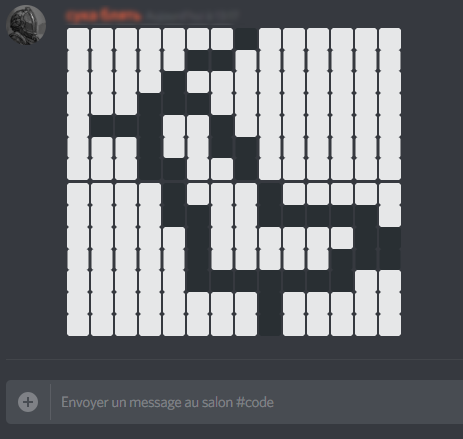
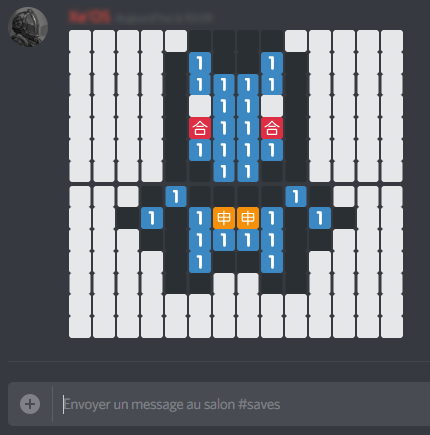
Updated software to support 5 new colors

diff --git a/DiscordPainter/PaintWindow.cs b/DiscordPainter/PaintWindow.cs
@@ -14,7 +14,7 @@ namespace DiscordPainter
     {
         private RenderWindow window;
         private Gui gui;
-        private bool colorMode;
+        private string colorMode;
         private Canvas canvas;
         private bool pressed;
 
@@ -90,25 +90,20 @@ namespace DiscordPainter
             if (gui != null)
                 gui.RemoveAllWidgets();
 
-            var buttonWhite = new Button("White")
+            var listColors = new ListBox()
             {
                 Position = new Vector2f(Utils.WIDTH * 41 / 50, Utils.HEIGHT * 1 / 7),
-                Size = new Vector2f(Utils.WIDTH * 8 / 50, Utils.HEIGHT / 10),
-                TextSize = (uint)(0.5 * Utils.HEIGHT / 10)
+                Size = new Vector2f(Utils.WIDTH * 8 / 50, Utils.HEIGHT * 1 / 4),
+                TextSize = (uint)(0.25 * Utils.HEIGHT / 10)
             };
-            gui.Add(buttonWhite);
 
-            buttonWhite.Pressed += (s, e) => SwitchColor(true);
-
-            var buttonBlack = new Button("Black")
+            foreach (KeyValuePair<string, string> color in Utils.COLORS)
             {
-                Position = new Vector2f(Utils.WIDTH * 41 / 50, Utils.HEIGHT * 2 / 7),
-                Size = new Vector2f(Utils.WIDTH * 8 / 50, Utils.HEIGHT / 10),
-                TextSize = (uint)(0.5 * Utils.HEIGHT / 10)
-            };
-            gui.Add(buttonBlack);
-
-            buttonBlack.Pressed += (s, e) => SwitchColor(false);
+                listColors.AddItem(color.Key.ToString());
+            }
+            gui.Add(listColors);
+               
+            listColors.ItemSelected += (s, e) => SwitchColor(in listColors);
 
             var buttonNew = new Button("New")
             {
@@ -141,9 +136,9 @@ namespace DiscordPainter
             buttonQuit.Pressed += (s, e) => CloseWindow();
         }
 
-        public void SwitchColor(bool color)
+        public void SwitchColor(in ListBox listBox)
         {
-            colorMode = color;
+            colorMode = listBox.GetSelectedItem();
         }
 
         public void OutputPaint()
@@ -154,13 +149,31 @@ namespace DiscordPainter
             {
                 for (int k = 0; k < Utils.SIZE_MAP_Y; k++)
                 {
-                    if (canvas.tiles[k][i] == 1)
+                    switch (canvas.tiles[k][i])
                     {
-                        output.Append(Utils.WHITE);
-                    }
-                    else
-                    {
-                        output.Append(Utils.BLACK);
+                        case 0:
+                            output.Append(Utils.COLORS["BLACK"]);
+                            break;
+                        case 1:
+                            output.Append(Utils.COLORS["WHITE"]);
+                            break;
+                        case 2:
+                            output.Append(Utils.COLORS["RED"]);
+                            break;
+                        case 3:
+                            output.Append(Utils.COLORS["GREEN"]);
+                            break;
+                        case 4:
+                            output.Append(Utils.COLORS["BLUE"]);
+                            break;
+                        case 5:
+                            output.Append(Utils.COLORS["YELLOW"]);
+                            break;
+                        case 6:
+                            output.Append(Utils.COLORS["PURPLE"]);
+                            break;
+                        default:
+                            break;
                     }
                 }
                 if (i == (Utils.SIZE_MAP_X / 2) - 1)

diff --git a/DiscordPainter/Canvas.cs b/DiscordPainter/Canvas.cs
@@ -32,22 +32,49 @@ namespace DiscordPainter
                     square.Position = new Vector2f(i * Utils.SQUARE_SIZE, k * Utils.SQUARE_SIZE);
 
                     // Fill color is changed for obstacles
-                    if (tiles[i][k] == 1) { square.FillColor = Color.White; }
-                    else if (tiles[i][k] == 0) { square.FillColor = Color.Black; }
-                    else { square.FillColor = new Color(128, 128, 128); }
+                    if (tiles[i][k] == 0) { square.FillColor = Color.Black; }
+                    else if (tiles[i][k] == 1) { square.FillColor = Color.White; }
+                    else if (tiles[i][k] == 2) { square.FillColor = new Color(221, 46, 68); }
+                    else if (tiles[i][k] == 3) { square.FillColor = new Color(119, 178, 85); }
+                    else if (tiles[i][k] == 4) { square.FillColor = new Color(59, 136, 195); }
+                    else if (tiles[i][k] == 5) { square.FillColor = new Color(244, 144, 12); }
+                    else if (tiles[i][k] == 6) { square.FillColor = new Color(116, 78, 170); }
 
                     window.Draw(square);
                 }
             }
         }
 
-        public void ChangePixel(int x, int y, bool color)
+        public void ChangePixel(int x, int y, string color)
         {
             if (x < Utils.SIZE_MAP_X && x >= 0 && y < Utils.SIZE_MAP_Y && y >= 0) {
-                if (color)
-                    tiles[x][y] = 1;
-                else
-                    tiles[x][y] = 0;
+
+                switch (color)
+                {
+                    case "BLACK":
+                        tiles[x][y] = 0;
+                        break;
+                    case "WHITE":
+                        tiles[x][y] = 1;
+                        break;
+                    case "RED":
+                        tiles[x][y] = 2;
+                        break;
+                    case "GREEN":
+                        tiles[x][y] = 3;
+                        break;
+                    case "BLUE":
+                        tiles[x][y] = 4;
+                        break;
+                    case "YELLOW":
+                        tiles[x][y] = 5;
+                        break;
+                    case "PURPLE":
+                        tiles[x][y] = 6;
+                        break;
+                    default:
+                        break;
+                }
             }
         }
     }

diff --git a/DiscordPainter/Utils.cs b/DiscordPainter/Utils.cs
@@ -17,8 +17,16 @@ namespace DiscordPainter
 
         public const int SQUARE_SIZE = (WIDTH - GUI_WIDTH) / SIZE_MAP_X;
 
-        public const String BLACK = ":black_large_square:";
-        public const String WHITE = ":white_large_square:";
+        public static Dictionary<string, string> COLORS = new Dictionary<string, string>()
+        {
+            {"BLACK", ":black_large_square:" },
+            {"WHITE", ":white_large_square:" },
+            {"RED", ":u5408:" },
+            {"GREEN", ":u6307:" },
+            {"BLUE", ":one:" },
+            {"YELLOW", ":u7533:" },
+            {"PURPLE", ":u7a7a:" },
+        };
 
         // Creating a 2D array with a set value
         public static int[][] CreateMap(int width, int height, int value)

diff --git a/README.md b/README.md
@@ -1,5 +1,5 @@
 # DiscordPainter
-Simple tool to create black and white, 14x14, drawings for Discord (using large_square)
+Simple tool to create 14x14 drawings for Discord with 5 colors + Black & White (using square emojis)
 
 Editor:
 ![](q0XhdNEwEI.gif)
